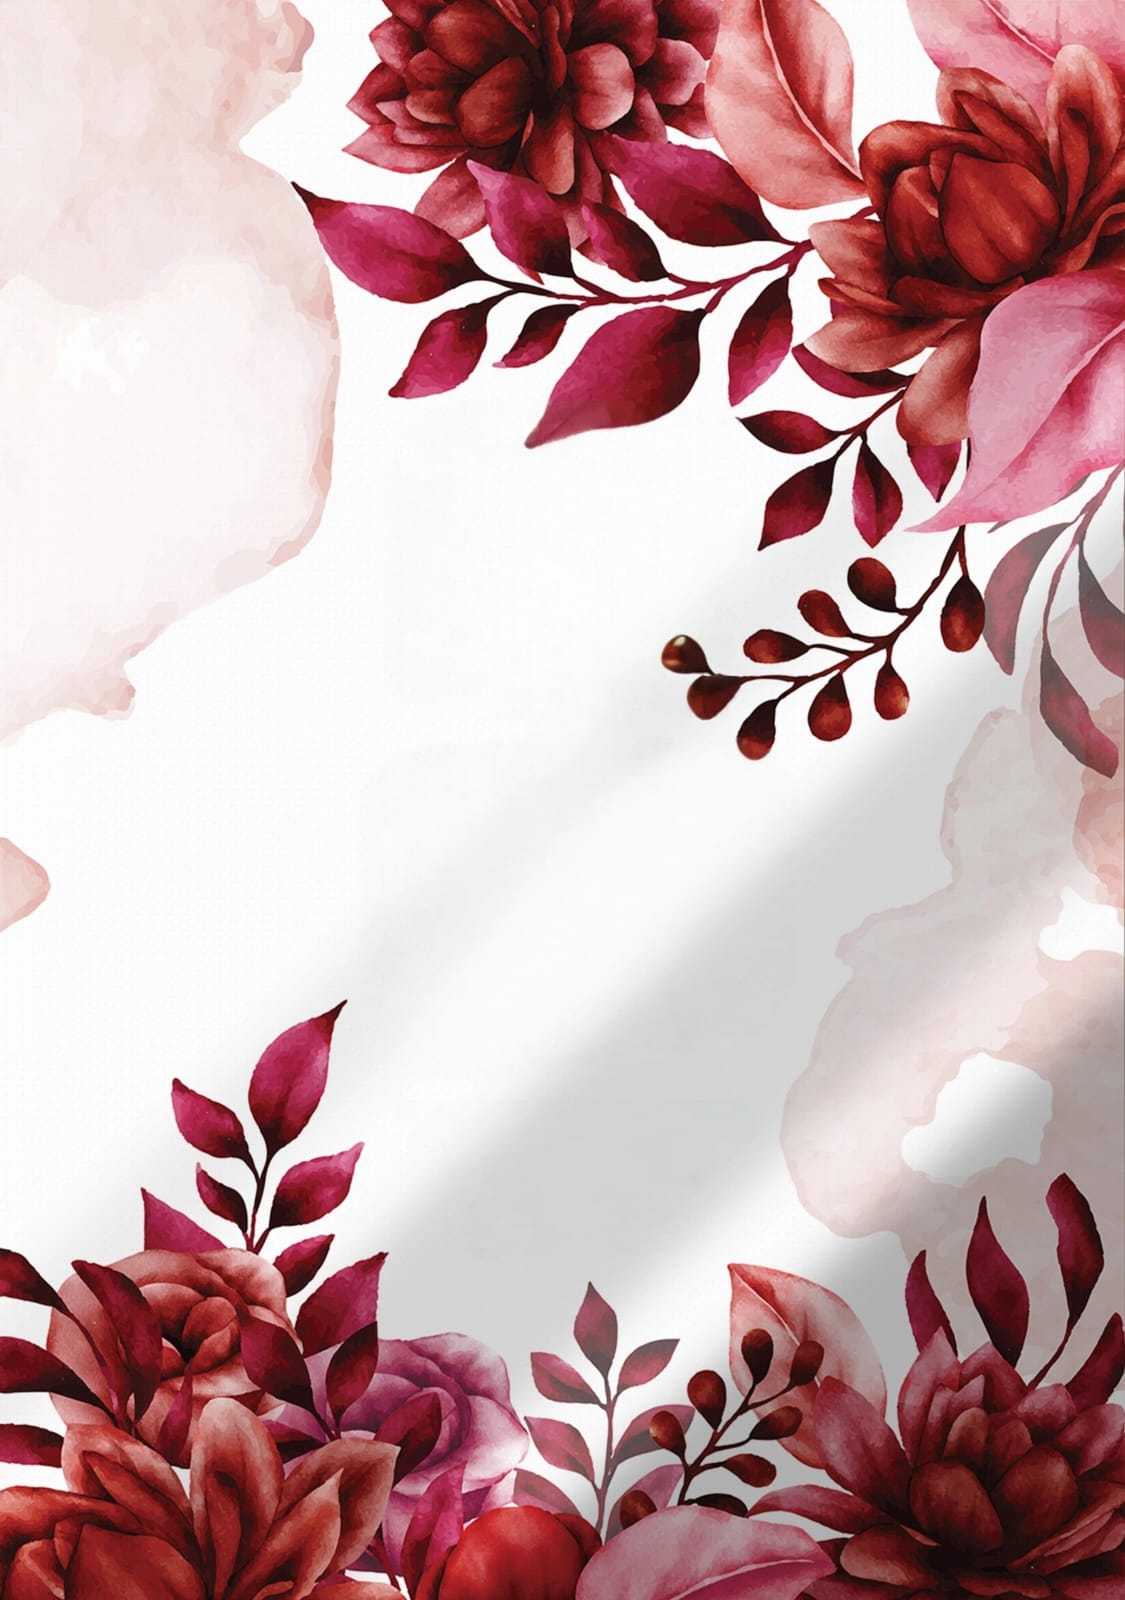
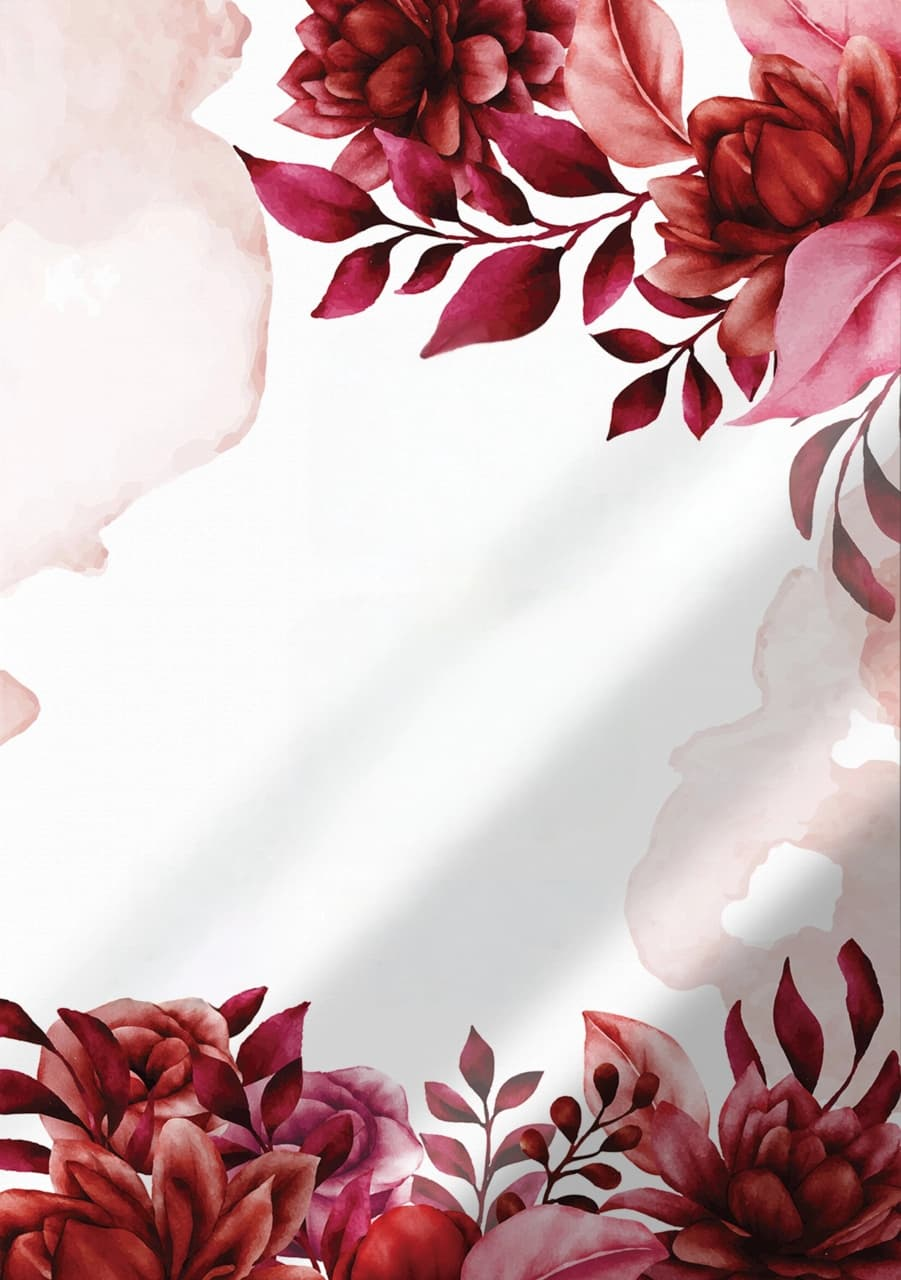
Add files via upload

diff --git a/styles.css b/styles.css
@@ -10,7 +10,7 @@
 }
 
 body{
-    background-image:url(fondo10.jpg);
+    background-image:url(fondo0.jpeg);
     background-repeat: no-repeat;
     background-attachment: fixed;
     background-position:top;
